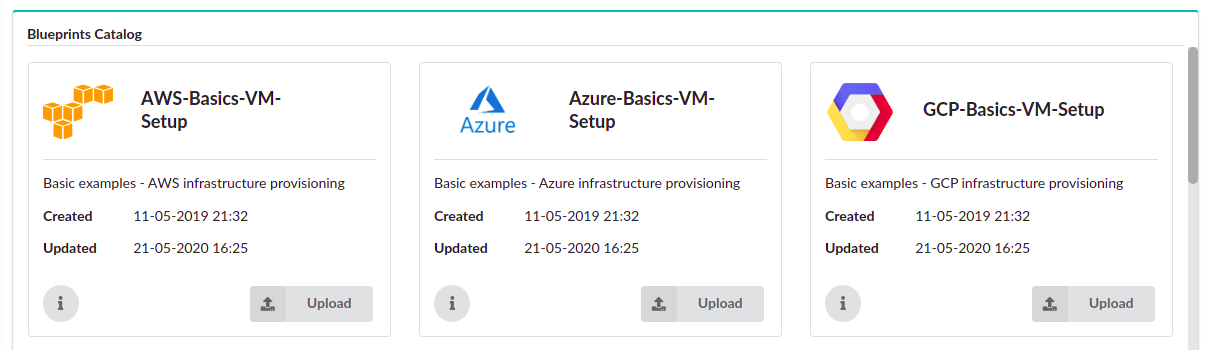
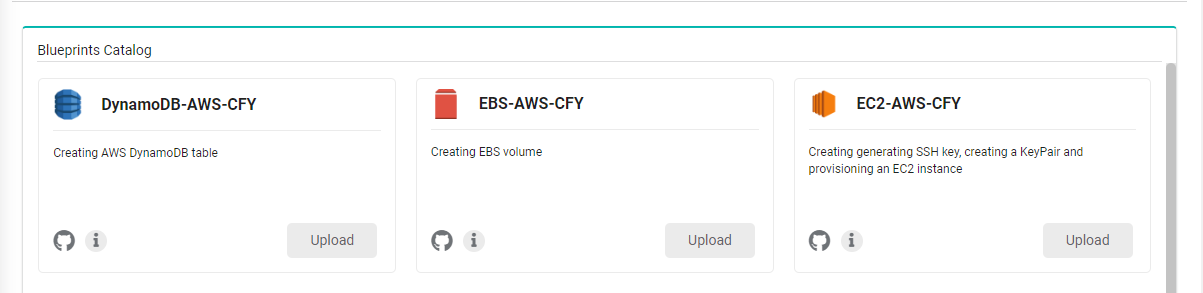
RD-6078 Update documentation for Blueprints Catalog (#2438)
* RD-6078 Update documentation for Blueprints Catalog

* remove dot :)

diff --git a/content/working_with/console/widgets/blueprintCatalog.md b/content/working_with/console/widgets/blueprintCatalog.md
@@ -24,9 +24,8 @@ These parameters are a must if you want to configure the widget to access privat
 ## Settings
 
 * `Blueprint Examples URL` - Specifies the JSON file from which the blueprints are being read
-* `List of fields to show` - The fields that are presented in the blueprints list. Default: Name, Description, Created, Updated.
 * `GitHub User` - GitHub user or organization account name which is the owner of the repository to fetch. Default: cloudify-examples
 * `GitHub Filter` - Optional filter for GitHub repositories. See GitHub’s web page ‘Searching repositories’ for more details.
 * `Display style` - defines whether the widget’s view is Catalog or Table. Default: Catalog
-* `List of fields to show in the table` - defines visible columns in table view only. Default: Name, Description, Created, Updated
+* `List of fields to show` - The fields that are presented in the blueprints list. Default: Name, Description
 * `Sort by name` -  if set to true, then blueprints will be sorted by name. Default: No
